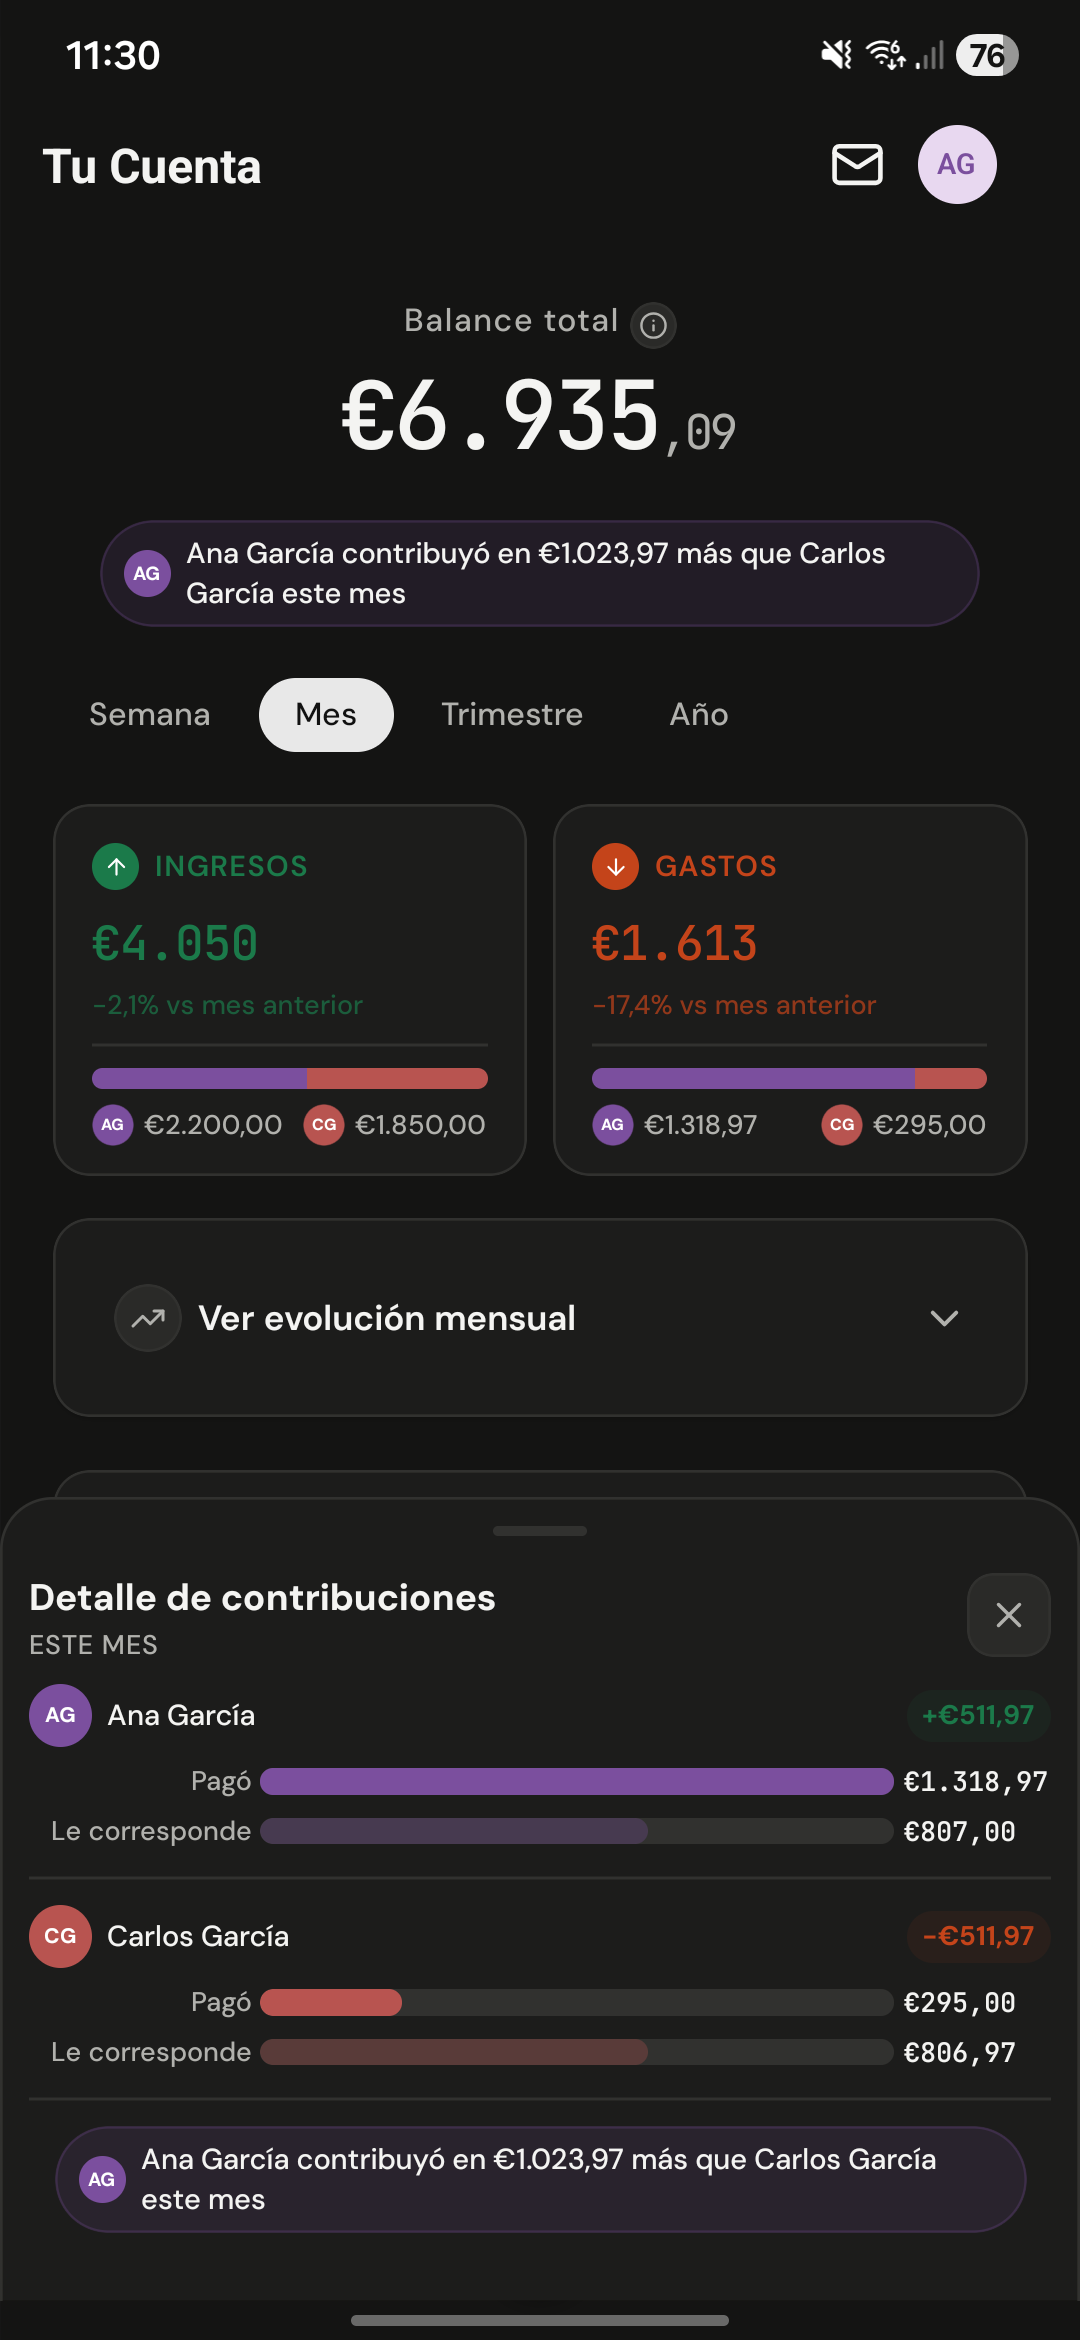
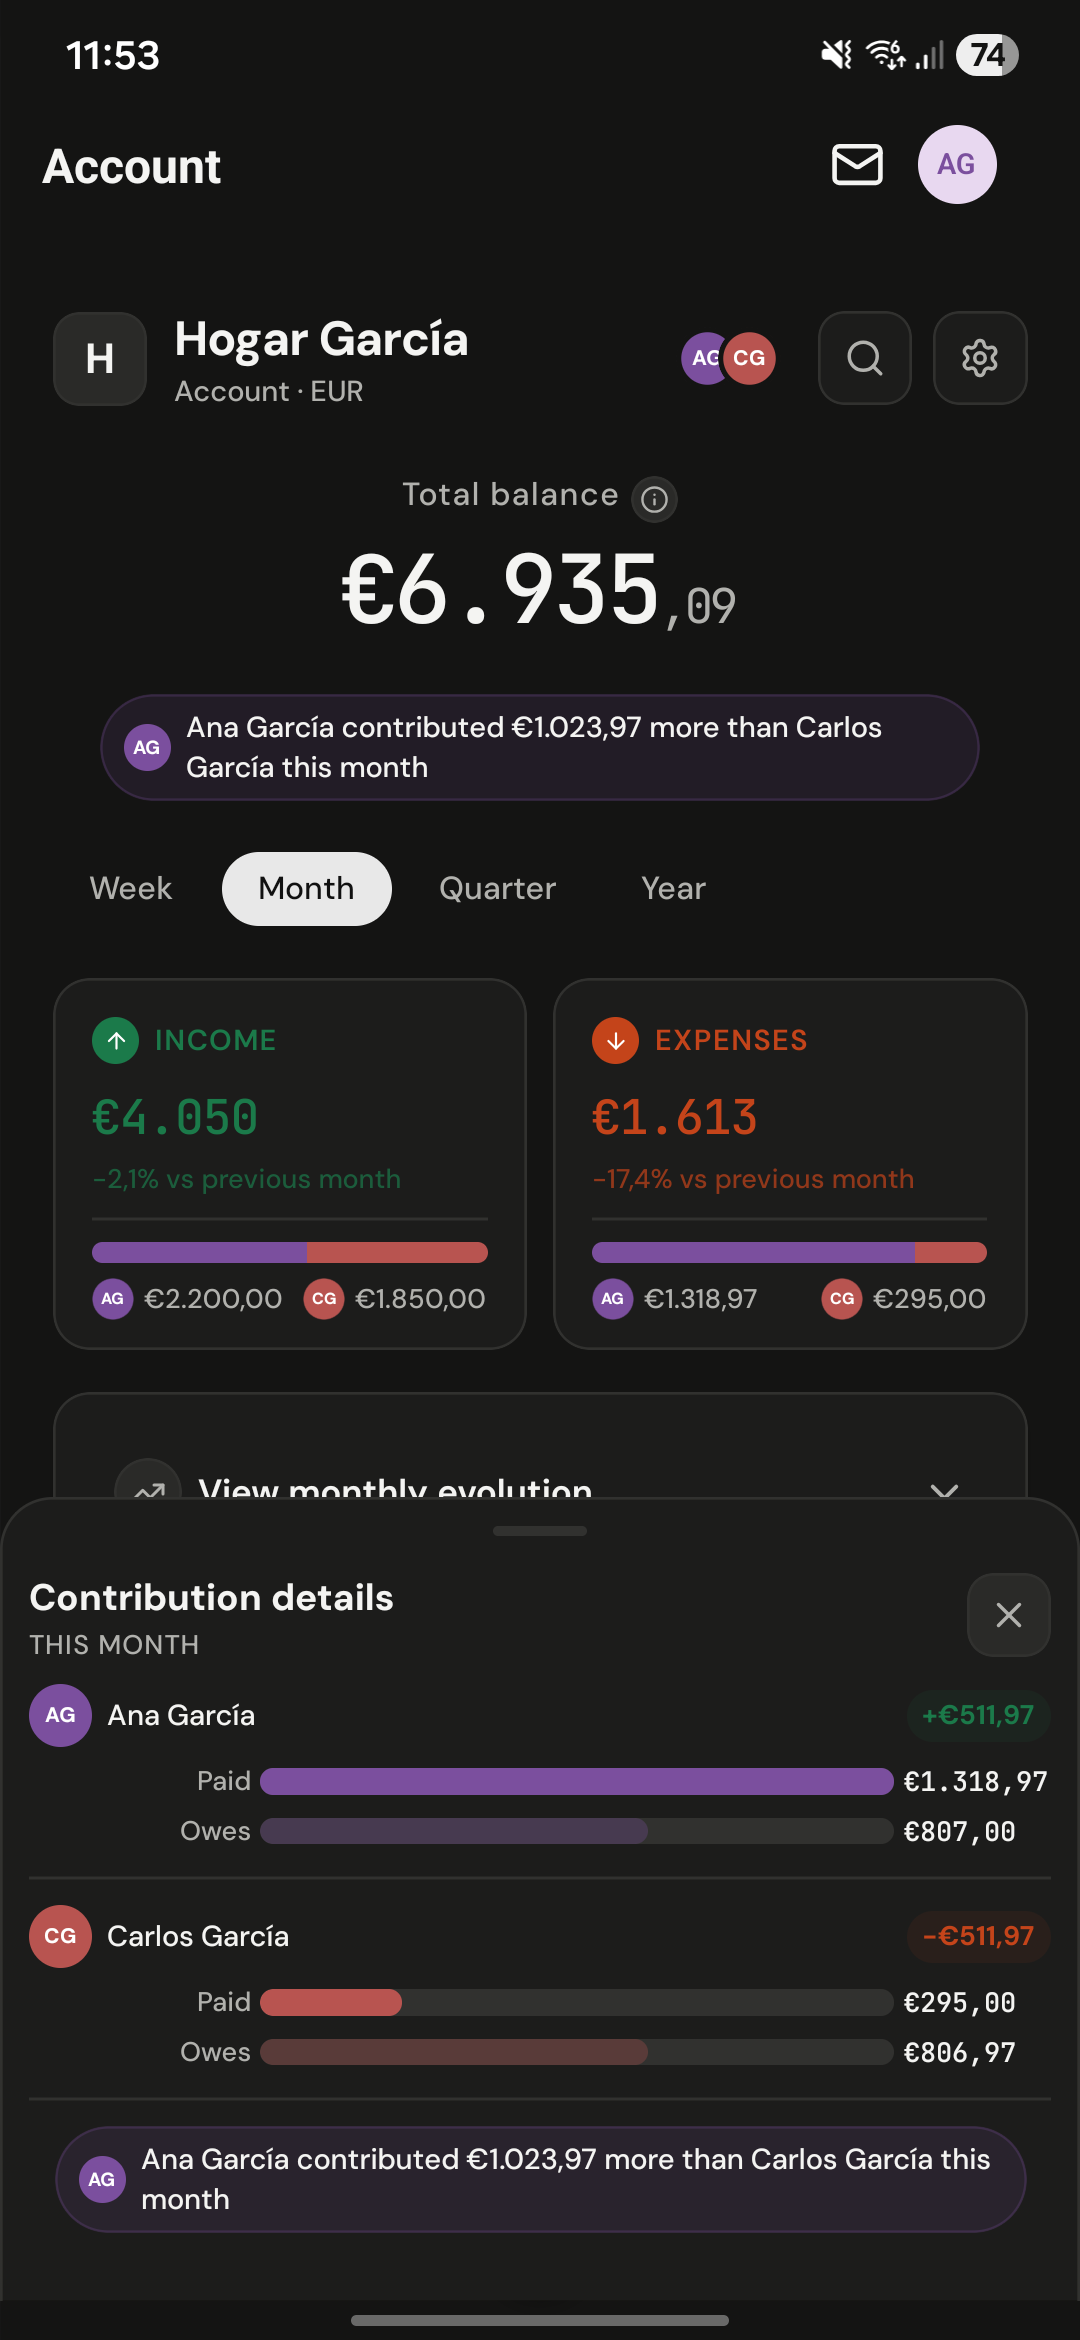
landing

diff --git a/apps/web/public/landing.html b/apps/web/public/landing.html
@@ -6,7 +6,7 @@
 <title>Finnon</title>
 <link rel="preconnect" href="https://fonts.googleapis.com">
 <link href="https://fonts.googleapis.com/css2?family=DM+Sans:wght@300;400;500;600;700&family=DM+Serif+Display:ital@0;1&display=swap" rel="stylesheet">
-<script src="https://cdnjs.cloudflare.com/ajax/libs/lucide/0.263.1/umd/lucide.min.js"></script>
+<script src="https://unpkg.com/lucide@0.460.0/dist/umd/lucide.min.js"></script>
 <style>
   :root {
     --beige: #FAFAF8;
@@ -80,6 +80,7 @@
   .btn-primary:hover { transform: translateY(-2px); box-shadow: 0 8px 30px rgba(0,0,0,0.2); }
   .btn-secondary { display: flex; align-items: center; gap: 8px; background: transparent; color: var(--dark); padding: 14px 28px; border-radius: 100px; font-size: 15px; font-weight: 500; text-decoration: none; border: 1.5px solid rgba(0,0,0,0.15); transition: border-color 0.2s, background 0.2s; }
   .btn-secondary:hover { border-color: var(--dark); background: rgba(0,0,0,0.03); }
+  .btn-disabled { opacity: 0.45; pointer-events: none; cursor: default; }
   .btn-android-icon { width: 18px; height: 18px; flex-shrink: 0; }
 
   /* HERO SCREENS */
@@ -193,7 +194,8 @@
   .cta-section h2 em { font-style: italic; color: var(--blue); }
   .cta-section p { font-size: 17px; color: rgba(255,255,255,0.6); margin-bottom: 40px; }
   .cta-actions { display: flex; gap: 12px; justify-content: center; flex-wrap: wrap; }
-  .cta-button { display: inline-flex; align-items: center; justify-content: center; background: #fff; color: var(--dark); text-decoration: none; padding: 14px 30px; border-radius: 100px; font-size: 15px; font-weight: 600; box-shadow: 0 14px 30px rgba(0,0,0,0.16); }
+  .cta-button { display: inline-flex; align-items: center; justify-content: center; gap: 8px; background: #fff; color: var(--dark); text-decoration: none; padding: 14px 30px; border-radius: 100px; font-size: 15px; font-weight: 600; box-shadow: 0 14px 30px rgba(0,0,0,0.16); }
+  .cta-button svg, .cta-button i { width: 20px; height: 20px; flex-shrink: 0; }
   .cta-button:hover { opacity: 0.9; }
   .cta-button.secondary {
     background: transparent;
@@ -250,11 +252,6 @@
 
 <!-- HERO -->
 <section class="hero">
-  <div class="hero-badge">
-    <span class="dot"></span>
-    <span data-lang="en">Available on web and mobile</span>
-    <span data-lang="es">Disponible en web y móvil</span>
-  </div>
   <h1>
     <span data-lang="en">All your accounts, all your cash.<br>One complete view for you <em>or for both of you.</em></span>
     <span data-lang="es">Todas tus cuentas, todo tu efectivo.<br>Una vista completa para ti <em>o para los dos.</em></span>
@@ -269,16 +266,16 @@
       <span data-lang="en">Use web app</span>
       <span data-lang="es">Usar versión web</span>
     </a>
-    <a href="https://play.google.com/store/apps/details?id=com.poleursus.finnonapp" class="btn-secondary" target="_blank" rel="noopener noreferrer">
+    <span class="btn-secondary btn-disabled">
       <svg class="btn-android-icon" viewBox="0 0 24 24" aria-hidden="true">
         <path fill="#34A853" d="M3.6 2.2c-.3.3-.5.7-.5 1.2v17.2c0 .5.2.9.5 1.2l9.6-9.8L3.6 2.2z"/>
         <path fill="#FBBC04" d="M16.4 14.7l-3.2-3.2-9.6 9.8c.4.4 1 .5 1.6.1l11.2-6.7z"/>
         <path fill="#EA4335" d="M16.5 9.4L5.2 2.6c-.6-.4-1.2-.2-1.6.1l9.6 9.8 3.3-3.1z"/>
         <path fill="#4285F4" d="M20.4 11.2l-3.9-2.3-3.4 3.2 3.3 3.3 4-2.4c.9-.5.9-1.4 0-1.8z"/>
       </svg>
-      <span data-lang="en">Get Android app</span>
-      <span data-lang="es">Descargar app Android</span>
-    </a>
+      <span data-lang="en">Android — Coming soon</span>
+      <span data-lang="es">Android — Próximamente</span>
+    </span>
   </div>
 </section>
 
@@ -403,57 +400,6 @@
         </div>
       </div>
     </div>
-    <div class="screens-scroll">
-      
-      <div class="scroll-item">
-        <div class="screen-pair">
-          <img class="en" src="/landing-images/showcase-01_en.jpg" alt="">
-          <img class="es" src="/landing-images/showcase-01_es.jpg" alt="">
-        </div>
-      </div>
-      <div class="scroll-item">
-        <div class="screen-pair">
-          <img class="en" src="/landing-images/showcase-02_en.jpg" alt="">
-          <img class="es" src="/landing-images/showcase-02_es.jpg" alt="">
-        </div>
-      </div>
-      <div class="scroll-item">
-        <div class="screen-pair">
-          <img class="en" src="/landing-images/showcase-03_en.jpg" alt="">
-          <img class="es" src="/landing-images/showcase-03_es.jpg" alt="">
-        </div>
-      </div>
-      <div class="scroll-item">
-        <div class="screen-pair">
-          <img class="en" src="/landing-images/showcase-04_en.jpg" alt="">
-          <img class="es" src="/landing-images/showcase-04_es.jpg" alt="">
-        </div>
-      </div>
-      <div class="scroll-item">
-        <div class="screen-pair">
-          <img class="en" src="/landing-images/showcase-05_en.jpg" alt="">
-          <img class="es" src="/landing-images/showcase-05_es.jpg" alt="">
-        </div>
-      </div>
-      <div class="scroll-item">
-        <div class="screen-pair">
-          <img class="en" src="/landing-images/showcase-06_en.jpg" alt="">
-          <img class="es" src="/landing-images/showcase-06_es.jpg" alt="">
-        </div>
-      </div>
-      <div class="scroll-item">
-        <div class="screen-pair">
-          <img class="en" src="/landing-images/showcase-07_en.jpg" alt="">
-          <img class="es" src="/landing-images/showcase-07_es.jpg" alt="">
-        </div>
-      </div>
-      <div class="scroll-item">
-        <div class="screen-pair">
-          <img class="en" src="/landing-images/showcase-08_en.jpg" alt="">
-          <img class="es" src="/landing-images/showcase-08_es.jpg" alt="">
-        </div>
-      </div>
-    </div>
   </div>
 </section>
 
@@ -513,16 +459,16 @@
         <span data-lang="en">Use web app</span>
         <span data-lang="es">Usar versión web</span>
       </a>
-      <a href="https://play.google.com/store/apps/details?id=com.poleursus.finnonapp" class="cta-button secondary" target="_blank" rel="noopener noreferrer">
+      <span class="cta-button secondary btn-disabled">
         <svg class="btn-android-icon" viewBox="0 0 24 24" aria-hidden="true">
           <path fill="#34A853" d="M3.6 2.2c-.3.3-.5.7-.5 1.2v17.2c0 .5.2.9.5 1.2l9.6-9.8L3.6 2.2z"/>
           <path fill="#FBBC04" d="M16.4 14.7l-3.2-3.2-9.6 9.8c.4.4 1 .5 1.6.1l11.2-6.7z"/>
           <path fill="#EA4335" d="M16.5 9.4L5.2 2.6c-.6-.4-1.2-.2-1.6.1l9.6 9.8 3.3-3.1z"/>
           <path fill="#4285F4" d="M20.4 11.2l-3.9-2.3-3.4 3.2 3.3 3.3 4-2.4c.9-.5.9-1.4 0-1.8z"/>
         </svg>
-        <span data-lang="en">Get Android app</span>
-        <span data-lang="es">Descargar app Android</span>
-      </a>
+        <span data-lang="en">Android — Coming soon</span>
+        <span data-lang="es">Android — Próximamente</span>
+      </span>
     </div>
   </div>
 </section>
